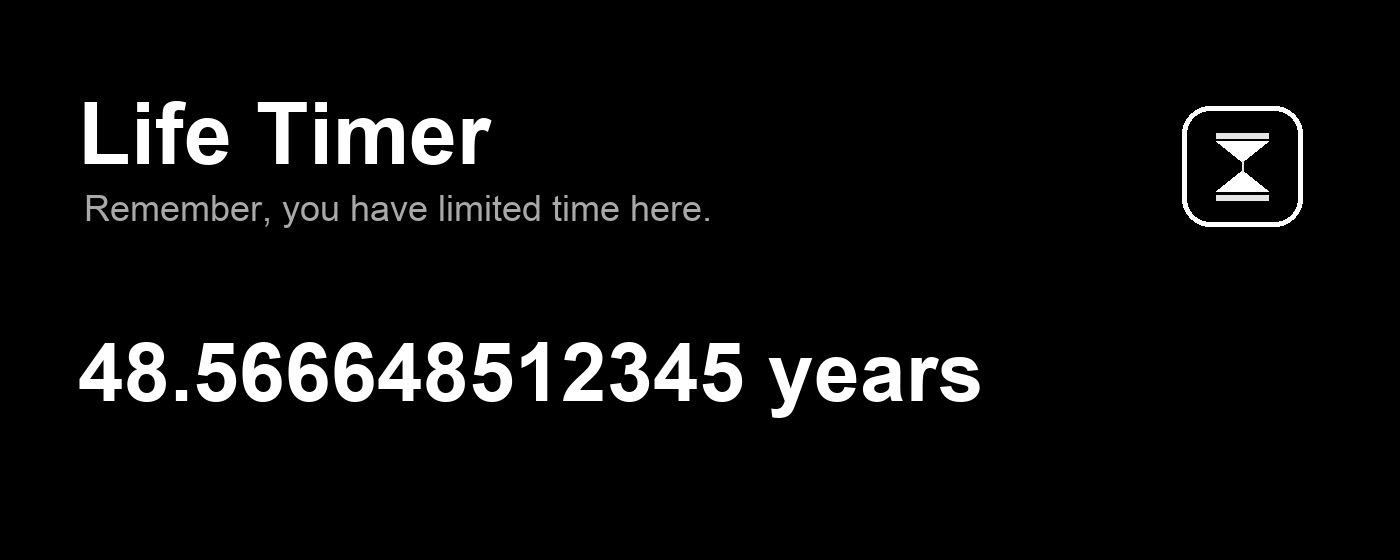
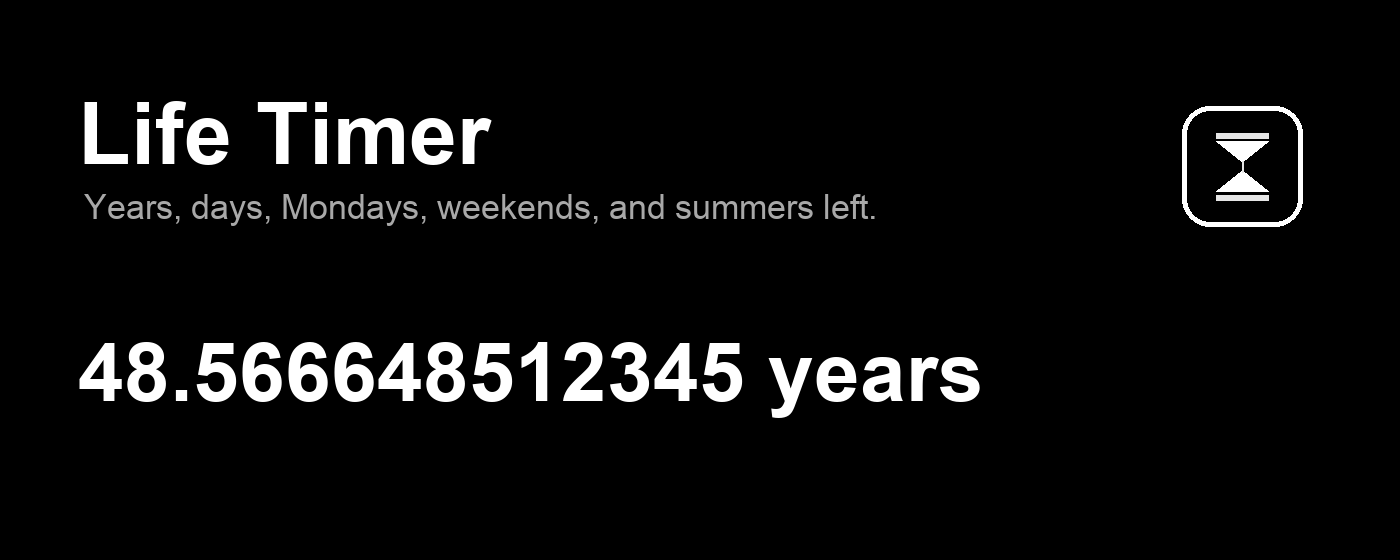
Add tangible life countdown metrics

Changed region(s): [[0.0614, 0.3339, 0.645, 0.3946]]

diff --git a/newtab.js b/newtab.js
@@ -1,4 +1,5 @@
 const MS_PER_YEAR = 365.2425 * 24 * 60 * 60 * 1000;
+const MS_PER_DAY = 24 * 60 * 60 * 1000;
 const COUNTDOWN_DECIMALS = 12;
 const DEFAULT_SETTINGS = {
   birthDate: "",
@@ -6,11 +7,20 @@ const DEFAULT_SETTINGS = {
 };
 
 const countdown = document.querySelector("#countdown");
+const metrics = {
+  days: document.querySelector("#metric-days"),
+  weeks: document.querySelector("#metric-weeks"),
+  mondays: document.querySelector("#metric-mondays"),
+  weekends: document.querySelector("#metric-weekends"),
+  summers: document.querySelector("#metric-summers")
+};
+const integerFormatter = new Intl.NumberFormat();
 
 const storage = createStorage();
 let settings = { ...DEFAULT_SETTINGS };
 let targetTime = null;
 let animationFrame = null;
+let lastMetricSecond = null;
 
 init();
 
@@ -50,20 +60,115 @@ function updateTarget() {
     targetTime = null;
     countdown.textContent = placeholderCountdown();
     countdown.dataset.state = "empty";
+    lastMetricSecond = null;
+    updateMetrics(null);
     return;
   }
 
   targetTime = birthDate.getTime() + settings.lifespanYears * MS_PER_YEAR;
   countdown.dataset.state = "active";
+  lastMetricSecond = null;
+  updateMetrics(Date.now());
 }
 
 function tick() {
   if (targetTime !== null) {
-    const remainingYears = Math.max(0, (targetTime - Date.now()) / MS_PER_YEAR);
+    const now = Date.now();
+    const remainingYears = Math.max(0, (targetTime - now) / MS_PER_YEAR);
     countdown.textContent = `${remainingYears.toFixed(COUNTDOWN_DECIMALS)} years`;
+
+    const metricSecond = Math.floor(now / 1000);
+    if (metricSecond !== lastMetricSecond) {
+      lastMetricSecond = metricSecond;
+      updateMetrics(now);
+    }
   }
 
   animationFrame = window.requestAnimationFrame(tick);
+}
+
+function updateMetrics(now) {
+  if (now === null || targetTime === null) {
+    setMetricValues({
+      days: null,
+      weeks: null,
+      mondays: null,
+      weekends: null,
+      summers: null
+    });
+    return;
+  }
+
+  const remainingMs = Math.max(0, targetTime - now);
+  const days = Math.ceil(remainingMs / MS_PER_DAY);
+  const nowDate = new Date(now);
+  const targetDate = new Date(targetTime);
+
+  setMetricValues({
+    days,
+    weeks: Math.ceil(days / 7),
+    mondays: countWeekdayBetween(nowDate, targetDate, 1),
+    weekends: countWeekdayBetween(nowDate, targetDate, 6),
+    summers: countSummersBetween(nowDate, targetDate)
+  });
+}
+
+function setMetricValues(values) {
+  for (const [key, value] of Object.entries(values)) {
+    metrics[key].textContent =
+      typeof value === "number" ? integerFormatter.format(value) : "--";
+  }
+}
+
+function countWeekdayBetween(startDate, endDate, weekday) {
+  const start = startOfLocalDay(startDate);
+  const end = startOfLocalDay(endDate);
+  const offset = (weekday - start.getDay() + 7) % 7;
+  const first = addDays(start, offset);
+
+  if (first.getTime() > end.getTime()) {
+    return 0;
+  }
+
+  return Math.floor((end.getTime() - first.getTime()) / (7 * MS_PER_DAY)) + 1;
+}
+
+function countSummersBetween(startDate, endDate) {
+  if (endDate.getTime() <= startDate.getTime()) {
+    return 0;
+  }
+
+  let year = startDate.getFullYear();
+  let count = 0;
+
+  if (isDuringNorthernSummer(startDate)) {
+    count = 1;
+    year += 1;
+  } else if (startDate.getTime() > new Date(year, 7, 31, 23, 59, 59, 999).getTime()) {
+    year += 1;
+  }
+
+  while (new Date(year, 5, 1).getTime() <= endDate.getTime()) {
+    count += 1;
+    year += 1;
+  }
+
+  return count;
+}
+
+function isDuringNorthernSummer(date) {
+  const year = date.getFullYear();
+  const summerStart = new Date(year, 5, 1);
+  const summerEnd = new Date(year, 7, 31, 23, 59, 59, 999);
+  return date.getTime() >= summerStart.getTime() && date.getTime() <= summerEnd.getTime();
+}
+
+function startOfLocalDay(date) {
+  return new Date(date.getFullYear(), date.getMonth(), date.getDate());
+}
+
+function addDays(date, days) {
+  return new Date(date.getFullYear(), date.getMonth(), date.getDate() + days);
 }
 
 function normalizeSettings(value) {

diff --git a/styles.css b/styles.css
@@ -26,7 +26,7 @@ body {
 }
 
 .timer-panel {
-  width: min(100%, 900px);
+  width: min(100%, 980px);
   text-align: center;
 }
 
@@ -39,21 +39,12 @@ body {
   text-transform: uppercase;
 }
 
-h1 {
-  max-width: 680px;
-  margin: 0 auto;
-  color: #ffffff;
-  font-size: clamp(1.35rem, 3.4vw, 3rem);
-  font-weight: 700;
-  line-height: 1.05;
-}
-
 .countdown {
-  margin-top: 28px;
+  margin-top: 0;
   color: #ffffff;
   letter-spacing: 0;
   font-variant-numeric: tabular-nums;
-  font-size: clamp(1.45rem, 4.4vw, 4.2rem);
+  font-size: clamp(1.6rem, 4.9vw, 4.6rem);
   font-weight: 700;
   line-height: 1;
   white-space: nowrap;
@@ -63,6 +54,48 @@ h1 {
   color: rgba(255, 255, 255, 0.48);
 }
 
+.metrics {
+  display: grid;
+  grid-template-columns: repeat(5, minmax(0, 1fr));
+  gap: 10px;
+  width: min(100%, 760px);
+  margin: 34px auto 0;
+  padding: 0;
+}
+
+.metric {
+  display: grid;
+  gap: 8px;
+  min-width: 0;
+  padding: 14px 10px;
+  border: 1px solid rgba(255, 255, 255, 0.14);
+  border-radius: 8px;
+}
+
+.metric dt,
+.metric dd {
+  margin: 0;
+}
+
+.metric dt {
+  color: rgba(255, 255, 255, 0.58);
+  font-size: 0.72rem;
+  font-weight: 700;
+  letter-spacing: 0;
+  text-transform: uppercase;
+}
+
+.metric dd {
+  overflow: hidden;
+  color: #ffffff;
+  font-variant-numeric: tabular-nums;
+  font-size: clamp(1.05rem, 2.1vw, 1.6rem);
+  font-weight: 750;
+  line-height: 1;
+  text-overflow: ellipsis;
+  white-space: nowrap;
+}
+
 @media (max-width: 680px) {
   .shell {
     padding: 24px 18px;
@@ -70,5 +103,14 @@ h1 {
 
   .countdown {
     white-space: normal;
+  }
+
+  .metrics {
+    grid-template-columns: repeat(2, minmax(0, 1fr));
+    margin-top: 24px;
+  }
+
+  .metric:last-child {
+    grid-column: 1 / -1;
   }
 }

diff --git a/newtab.html b/newtab.html
@@ -3,15 +3,36 @@
   <head>
     <meta charset="utf-8">
     <meta name="viewport" content="width=device-width, initial-scale=1">
-    <title>Timer</title>
+    <title>Life Timer</title>
     <link rel="stylesheet" href="styles.css">
   </head>
   <body>
     <main class="shell">
-      <section class="timer-panel" aria-labelledby="timer-title">
+      <section class="timer-panel" aria-label="Life countdown">
         <p class="eyebrow">Time remaining</p>
-        <h1 id="timer-title">Remember, you have limited time here.</h1>
         <div class="countdown" id="countdown" aria-live="polite">--.------------ years</div>
+        <dl class="metrics" aria-label="Concrete time remaining">
+          <div class="metric">
+            <dt>Days</dt>
+            <dd id="metric-days">--</dd>
+          </div>
+          <div class="metric">
+            <dt>Weeks</dt>
+            <dd id="metric-weeks">--</dd>
+          </div>
+          <div class="metric">
+            <dt>Mondays</dt>
+            <dd id="metric-mondays">--</dd>
+          </div>
+          <div class="metric">
+            <dt>Weekends</dt>
+            <dd id="metric-weekends">--</dd>
+          </div>
+          <div class="metric">
+            <dt>Summers</dt>
+            <dd id="metric-summers">--</dd>
+          </div>
+        </dl>
       </section>
     </main>
     <script src="newtab.js"></script>

diff --git a/scripts/generate_store_assets.py b/scripts/generate_store_assets.py
@@ -64,9 +64,8 @@ def make_store_image(path, size, variant):
 
     if variant == "screenshot":
         text_center(draw, (width / 2, 230), "TIME REMAINING", font(16, True), dim)
-        text_center(draw, (width / 2, 310), "Remember, you have", font(82, True), cream)
-        text_center(draw, (width / 2, 400), "limited time here.", font(82, True), cream)
-        text_center(draw, (width / 2, 535), "48.566648512345 years", font(72, True), cream)
+        text_center(draw, (width / 2, 340), "48.566648512345 years", font(72, True), cream)
+        draw_metrics(draw, width / 2 - 380, 470, 760, cream, dim)
     elif variant == "small":
         draw.text((32, 32), "Life Timer", font=font(46, True), fill=cream)
         draw.text((34, 92), "A new tab countdown for limited time.", font=font(22), fill=dim)
@@ -76,12 +75,30 @@ def make_store_image(path, size, variant):
         image.paste(icon, (width - 126, height - 126), icon)
     else:
         draw.text((78, 86), "Life Timer", font=font(86, True), fill=cream)
-        draw.text((84, 188), "Remember, you have limited time here.", font=font(36), fill=dim)
+        draw.text((84, 188), "Years, days, Mondays, weekends, and summers left.", font=font(34), fill=dim)
         draw.text((78, 326), "48.566648512345 years", font=font(82, True), fill=cream)
         icon = make_icon(160)
         image.paste(icon, (width - 238, 86), icon)
 
     image.save(path)
+
+
+def draw_metrics(draw, x, y, width, cream, dim):
+    labels = [
+        ("Days", "17,727"),
+        ("Weeks", "2,533"),
+        ("Mondays", "2,533"),
+        ("Weekends", "2,533"),
+        ("Summers", "49"),
+    ]
+    gap = 10
+    item_width = (width - gap * (len(labels) - 1)) / len(labels)
+    for index, (label, value) in enumerate(labels):
+        left = x + index * (item_width + gap)
+        right = left + item_width
+        draw.rounded_rectangle([left, y, right, y + 92], radius=8, outline=(44, 44, 44), width=1)
+        text_center(draw, ((left + right) / 2, y + 28), label.upper(), font(13, True), dim)
+        text_center(draw, ((left + right) / 2, y + 60), value, font(27, True), cream)
 
 
 def main():

diff --git a/STORE_LISTING.md b/STORE_LISTING.md
@@ -15,11 +15,12 @@ Language: English
 Detailed description:
 
 Life Timer replaces your Chrome new tab page with a clean countdown of how many
-years you have left, shown to twelve decimal places.
+years you have left, shown to twelve decimal places. It also shows more tangible
+counts for days, weeks, Mondays, weekends, and summers left.
 
 Click the extension icon to enter your birth date and estimated target lifespan.
-The extension saves those settings locally in Chrome, then every new tab shows a
-live countdown and the reminder: "Remember, you have limited time here."
+The extension saves those settings locally in Chrome, then every new tab shows
+your private life timer.
 
 The extension has no account, analytics, ads, tracking, or remote server. Your
 settings stay on your device.
@@ -63,4 +64,4 @@ No credentials are required.
 1. Load the extension.
 2. Open a new tab.
 3. Enter a birth date and target lifespan.
-4. Confirm the new tab page shows a live countdown to twelve decimal places.
+4. Confirm the new tab page shows a live countdown and concrete metric counters.

diff --git a/README.md b/README.md
@@ -3,9 +3,7 @@
 Life Timer is a Manifest V3 Chrome extension that replaces the new tab page with
 a live life countdown. Set a birth date and target lifespan from the extension
 popup, and every new tab shows the remaining years to twelve decimal places
-above the reminder:
-
-> Remember, you have limited time here.
+alongside tangible counts for days, weeks, Mondays, weekends, and summers left.
 
 ## Install locally
 